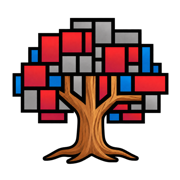
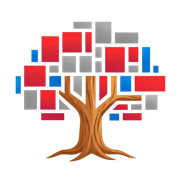
style: 사이트 아이콘을 외곽선 없는 투명 심볼로 바꾼다
- 탭·즐겨찾기 아이콘(32·64px)과 홈 화면 아이콘(180px)을 외곽선 없음 투명 심볼로 교체한다.
- 캐시를 피하려고 아이콘 연결의 버전 번호를 v=5로 올린다.

검증: lint 통과, test 228 통과, build 통과.

Changed region(s): [[0.0556, 0.0833, 0.9444, 0.9167]]

diff --git a/index.html b/index.html
@@ -2,9 +2,9 @@
 <html lang="ko">
   <head>
     <meta charset="UTF-8" />
-    <link rel="icon" type="image/png" sizes="32x32" href="/MARKETRY-favicon-32.png?v=4" />
-    <link rel="icon" type="image/png" sizes="64x64" href="/MARKETRY-favicon-64.png?v=4" />
-    <link rel="apple-touch-icon" sizes="180x180" href="/MARKETRY-apple-touch-icon.png?v=4" />
+    <link rel="icon" type="image/png" sizes="32x32" href="/MARKETRY-favicon-32.png?v=5" />
+    <link rel="icon" type="image/png" sizes="64x64" href="/MARKETRY-favicon-64.png?v=5" />
+    <link rel="apple-touch-icon" sizes="180x180" href="/MARKETRY-apple-touch-icon.png?v=5" />
     <meta name="viewport" content="width=device-width, initial-scale=1.0" />
     <!-- 이 사이트는 처음부터 다크 테마다. 폰 브라우저의 "웹페이지 강제 다크 모드"가 색을 한 번 더 바꾸지 않게 알린다. -->
     <meta name="color-scheme" content="dark" />
